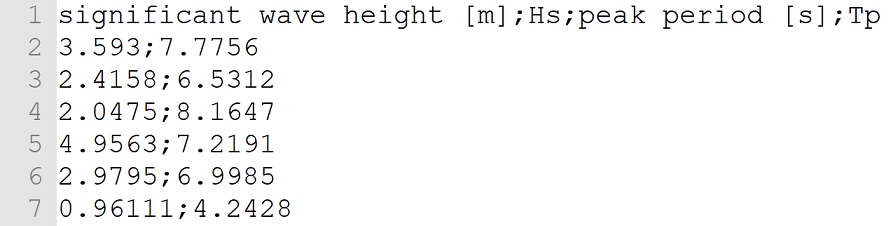
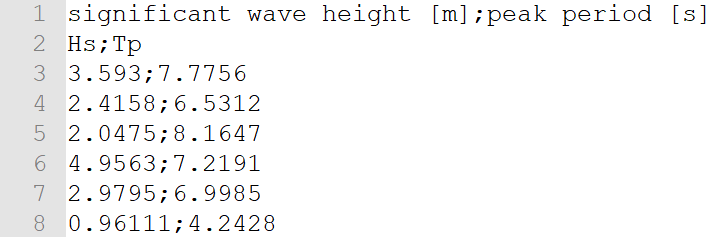
Change required filestructure, header now takes one line for names and one line for symbols

Changed region(s): [[0.0309, 0.0, 1.0, 1.0]]

diff --git a/contour/templates/contour/measure_file_model_add.html b/contour/templates/contour/measure_file_model_add.html
@@ -36,7 +36,7 @@
                                            id="upload-file-info2"
                                     >
                                 </div>
-                                <span class='label label-info' id="upload-file-info"></span>
+                                <span class="label label-info" id="upload-file-info"></span>
                             </div>
                         {% else %}
                             <div class="col-md-4"> {{ x }} </div>
@@ -56,11 +56,14 @@
                 <div class="img-caption">
                     Example showing the required file structure if two
                     environmental variables are used.
-                    The first row represents the header. It is interpreted as
-                    "variable name 1",
-                    "variable symbol 1", "variable name 2" and
-                    "variable symbol 2". All following rows contain the
-                    numerical values of the variables, each row represents
+                    The first two lines represent the header.
+                    The first line holds the variable names, it is
+                    interpreted as "variable name 1",
+                    "variable name 2".
+                    The second line holds the variable symbols, it is
+                    interprted as "variable symbol 1", "variable symbol 2".
+                    All following lines contain the
+                    numerical values of the variables, each line represents
                     one time step.
                     The first column is associated with variable 1, the second
                     columne is associated with variable 2. All values must be

diff --git a/info/templates/info/help.html b/info/templates/info/help.html
@@ -41,13 +41,16 @@
                  class="img-responsive">
         </div>
         <div class="img-caption">
-            Fig. 1. Example showing the required file structure if two
+            Example showing the required file structure if two
             environmental variables are used.
-            The first row represents the header. It is interpreted as
-            "variable name 1",
-            "variable symbol 1", "variable name 2" and
-            "variable symbol 2". All following rows contain the
-            numerical values of the variables, each row represents
+            The first two lines represent the header.
+            The first line holds the variable names, it is
+            interpreted as "variable name 1",
+            "variable name 2".
+            The second line holds the variable symbols, it is
+            interprted as "variable symbol 1", "variable symbol 2".
+            All following lines contain the
+            numerical values of the variables, each line represents
             one time step.
             The first column is associated with variable 1, the second
             columne is associated with variable 2. All values must be

diff --git a/static/styles.css b/static/styles.css
@@ -478,12 +478,12 @@ input {
 }
 
 .img-caption {
-    align: center;
     font-size: 18px;
     margin-left: 30px;
     margin-right: 30px;
     margin-top: 5px;
     margin-bottom: 15px;
+    text-align: justify;
 }
 
 .thump-img-container {

diff --git a/contour/validators.py b/contour/validators.py
@@ -67,30 +67,45 @@ def validate_csv_upload(value):
 
 
     input_lines = input_str.splitlines()
-    header = input_lines[0]
-    body = "\n".join(input_lines[1:]) + "\n"
+    header_line_1 = input_lines[0]
+    header_line_2 = input_lines[1]
+    body = "\n".join(input_lines[2:]) + "\n"
 
-    # Validate the header.
-    header_parts = header.split(";")
+    # Validate the header and start with the first line, which should contain
+    # the variable names.
+    header_parts = header_line_1.split(";")
     if len(header_parts) == 0:
         raise ValidationError("Empty header.", code="invalid")
-    if len(header_parts) % 2 != 0:
-        raise ValidationError("Long name and symbol are needed "
-                              "for each variable.", code="invalid")
+    var_num = int(len(header_parts))
 
-    var_num = int(len(header_parts) / 2)
-
-    h_pattern_str = r"^(?:[^;]{1,50};\s*[^,\s]{1,5}\s*;){1,9}" \
-                    r"[^;]{1,50};\s*[^;\s]{1,5}$"
+    h_pattern_str = r"^(?:[^;]{1,50};){1,9}[^;]{1,50}$"
     h_pattern = re.compile(h_pattern_str, re.ASCII)
 
     header_is_ok = False
-    result = h_pattern.match(header)
+    result = h_pattern.match(header_line_1)
     if result:
-        header_is_ok = (result.end()-result.start() == len(header))
+        header_is_ok = (result.end()-result.start() == len(header_line_1))
 
     if not header_is_ok:
-        raise ValidationError("Error in header.", code="invalid")
+        raise ValidationError("Error in header's first line.", code="invalid")
+
+    # Valide the second line, which should contain the variable symbols.
+    header_parts = header_line_2.split(";")
+    if int(len(header_parts)) != var_num:
+        raise ValidationError("Error in the header's second line. "
+                              "A variable symbol for each variable must "
+                              "be provided.", code="invalid")
+
+    h_pattern_str = r"^(?:[^,\s]{1,5};){1,9}[^;\s]{1,5}$"
+    h_pattern = re.compile(h_pattern_str, re.ASCII)
+
+    header_is_ok = False
+    result = h_pattern.match(header_line_2)
+    if result:
+        header_is_ok = (result.end()-result.start() == len(header_line_2))
+
+    if not header_is_ok:
+        raise ValidationError("Error in header's second line.", code="invalid")
 
     # Validate the body.
     if len(body) == 0:

diff --git a/contour/views.py b/contour/views.py
@@ -1306,18 +1306,18 @@ def get_info_from_file(url):
     if url[0:8] == 'https://':
         req = request.Request(url)
         print('Trying to urlopen the url: ' + str(url))
-        with request.urlopen(req) as response:
-            reader = csv.reader(codecs.iterdecode(response, 'utf-8'), delimiter=';').__next__()
-            var_names, var_symbols = get_info_from_reader(reader)
+        with request.urlopen(req,  newline='') as response:
+            reader = csv.reader(codecs.iterdecode(response, 'utf-8'), delimiter=';')
+            var_names, var_symbols = get_header_info_from_reader(reader)
     else:
-        with open(url, 'r') as file:
-            reader = csv.reader(file, delimiter=';').__next__()
-            var_names, var_symbols = get_info_from_reader(reader)
+        with open(url, 'r', newline='') as file:
+            reader = csv.reader(file, delimiter=';')
+            var_names, var_symbols = get_header_info_from_reader(reader)
 
     return var_names, var_symbols
 
 
-def get_info_from_reader(reader):
+def get_header_info_from_reader(reader):
     """
     Reads the variable names and symbols form a reader.
 
@@ -1339,10 +1339,17 @@ def get_info_from_reader(reader):
     """
     var_names = []
     var_symbols = []
-    i = 0
-    while i < (len(reader)):
-        var_names.append(reader[i])
-        i += 1
-        var_symbols.append(reader[i])
-        i += 1
+    for i, row in enumerate(reader):
+        j = 0
+        while j < (len(row)):
+            # The first row contains the variable names.
+            if i == 0:
+                var_names.append(row[j])
+            # The second row contains the variable symbols.
+            elif i == 1:
+                var_symbols.append(row[j])
+            # The body starts at line 3
+            elif i == 2:
+                return var_names, var_symbols
+            j += 1
     return var_names, var_symbols

diff --git a/contour/plot.py b/contour/plot.py
@@ -571,7 +571,7 @@ def plot_contour(contour_coordinates, user, environmental_contour, var_names):
             data_path = probabilistic_model.measure_file_model.measure_file.url
             if data_path[0] == '/':
                 data_path = data_path[1:]
-            data = pd.read_csv(data_path, sep=';', header=0).as_matrix()
+            data = pd.read_csv(data_path, sep=';', header=1).as_matrix()
             ax.scatter(data[:, 0], data[:, 1], s=5, c='k',
                        label='measured/simulated data')
 
@@ -651,9 +651,10 @@ def plot_data_set_as_scatter(measure_file_model, var_names):
     if data_path[0] == '/':
         data_path = data_path[1:]
 
-    # Number of lines of th header is correctly set to 0! Originally it was 1,
-    # which caused a bug since the first data row was ignored, see issue #20.
-    data = pd.read_csv(data_path, sep=';', header=0).as_matrix()
+    # For some reason here the header parameter must be the number of lines
+    # of the header - 1, consequently 1. There was a bug related to this,
+    # as the first data row was ignored, see issue #20.
+    data = pd.read_csv(data_path, sep=';', header=1).as_matrix()
 
     # Plot all variables against the first variable. This is done in subplots
     # such that only a single figure is generated.
